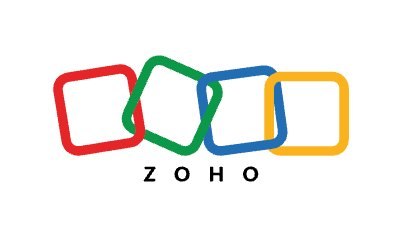
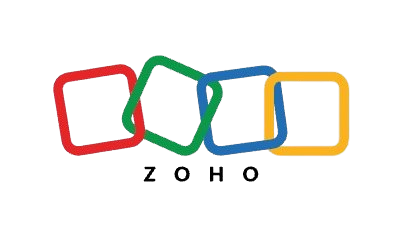
Update navbar invite link and refresh assets
Replace hardcoded Discord invite URLs in components/Navbar.tsx with the Blueprint guild invite for Dublin (updated in two places). Also update the zoho.png asset and refresh .DS_Store binaries in the repo.

diff --git a/components/Navbar.tsx b/components/Navbar.tsx
@@ -63,7 +63,7 @@ export default function Navbar() {
             </a>
           ))}
           <a
-            href="https://discord.gg/TNjUjYkB3"
+            href="https://blueprint.hackclub.com/guilds/invite/dublin"
             target="_blank"
             rel="noopener noreferrer"
             className="btn-glow relative px-5 py-2 rounded-full text-sm font-semibold text-cream border border-blue-mid/60 hover:border-blue-light/80 bg-blue-mid/10 hover:bg-blue-mid/20 transition-all duration-300 hover:shadow-glow-blue"
@@ -111,7 +111,7 @@ export default function Navbar() {
                 </motion.a>
               ))}
               <motion.a
-                href="https://discord.gg/TNjUjYkB3"
+                href="https://blueprint.hackclub.com/guilds/invite/dublin"
                 target="_blank"
                 rel="noopener noreferrer"
                 initial={{ x: -20, opacity: 0 }}
